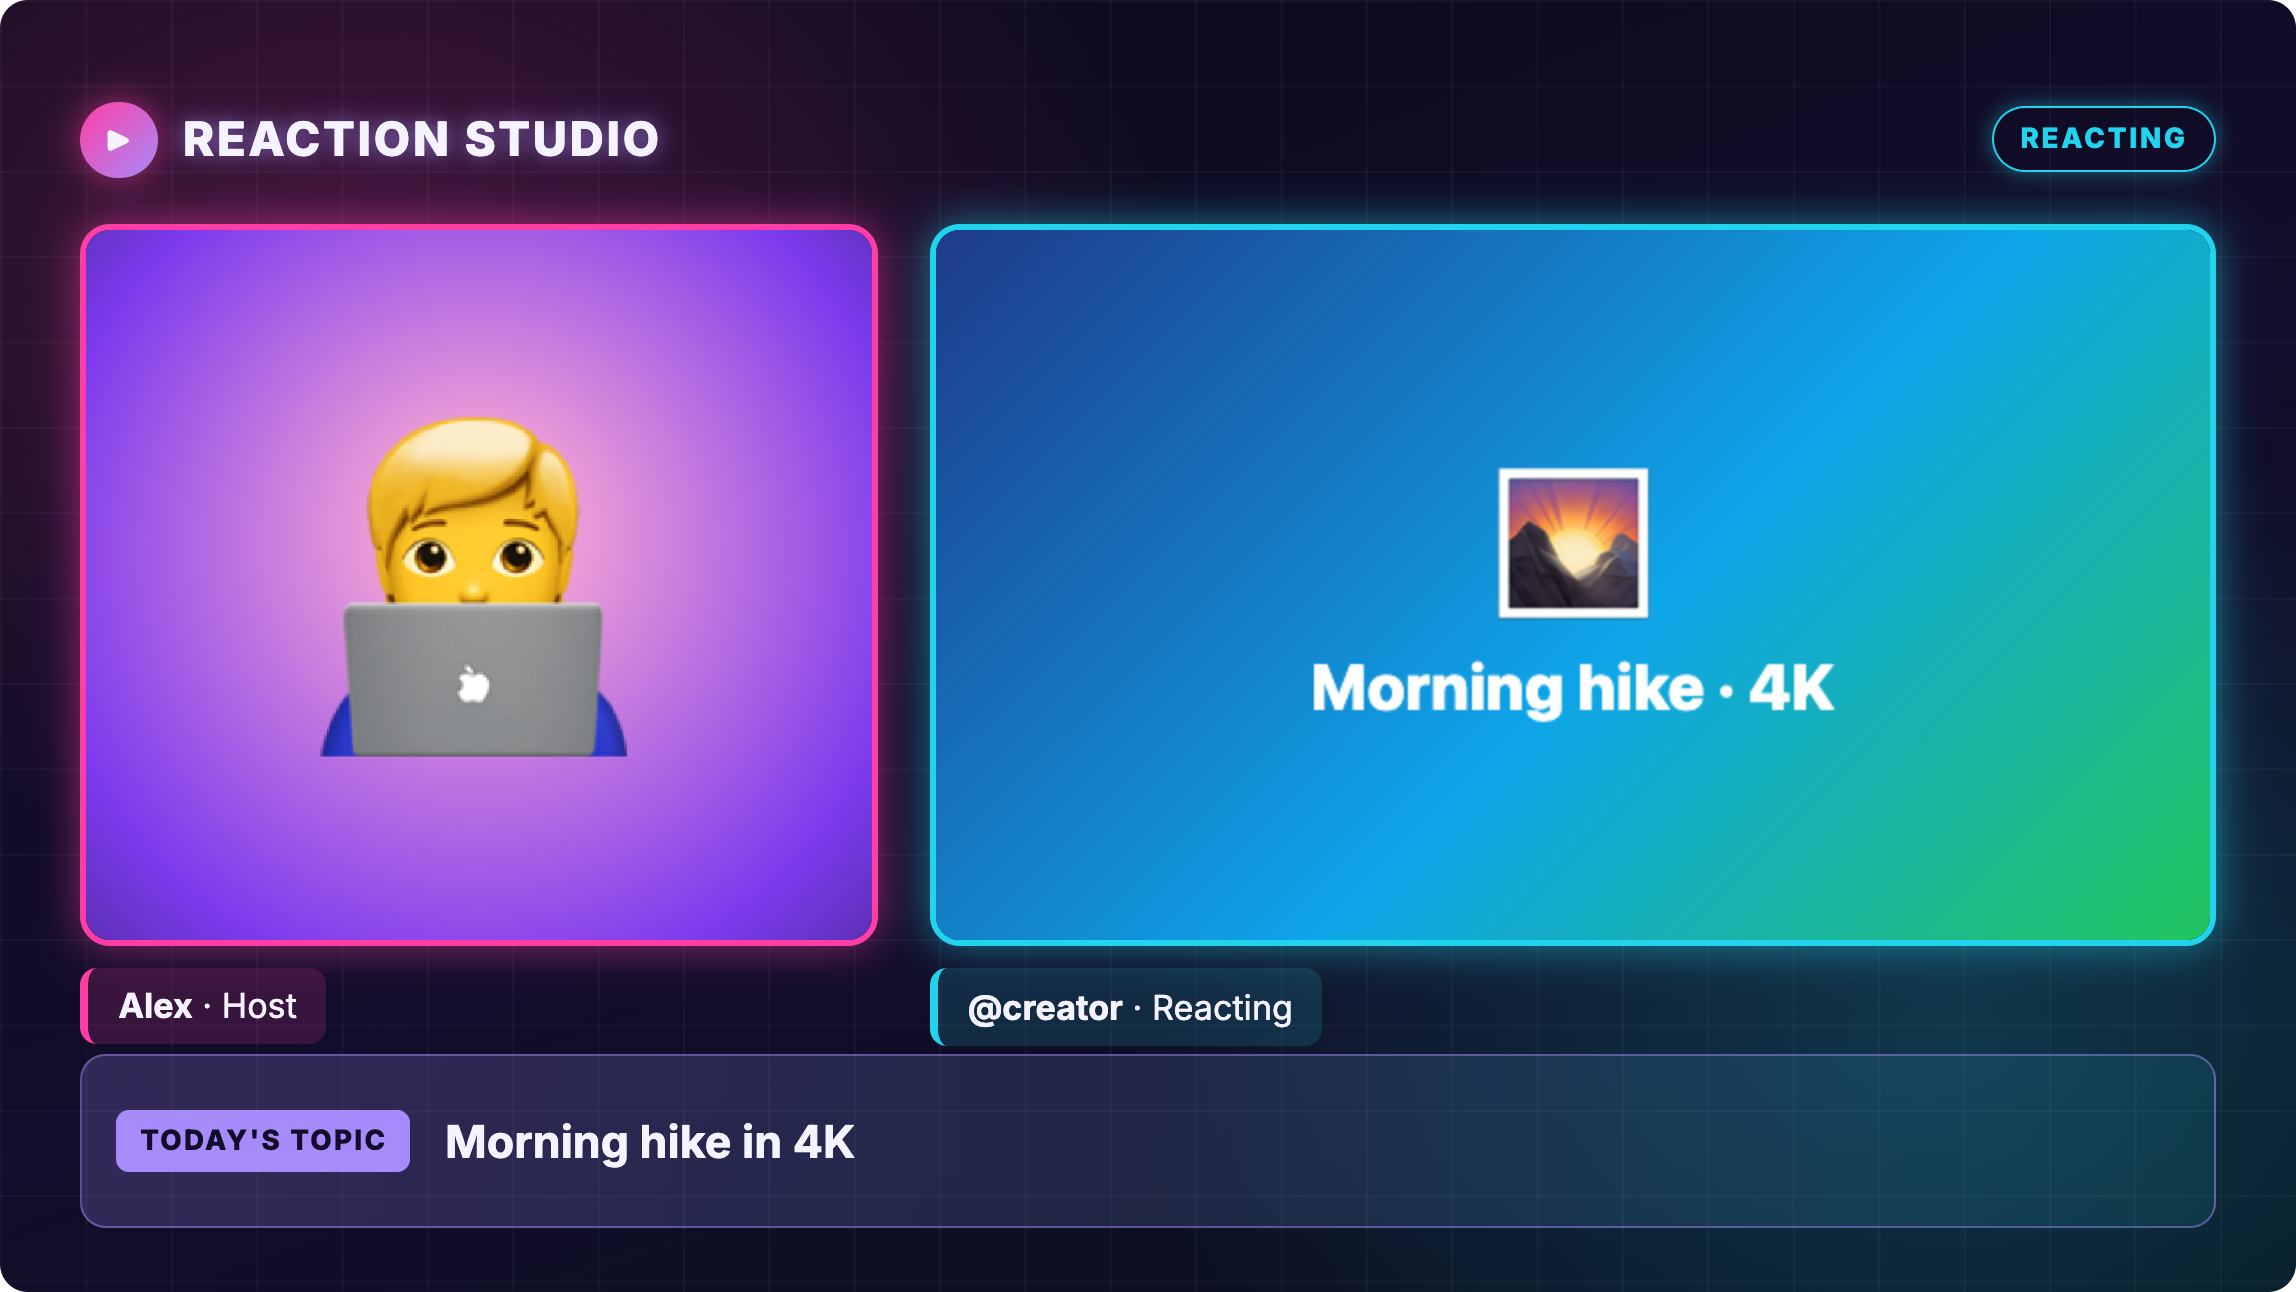
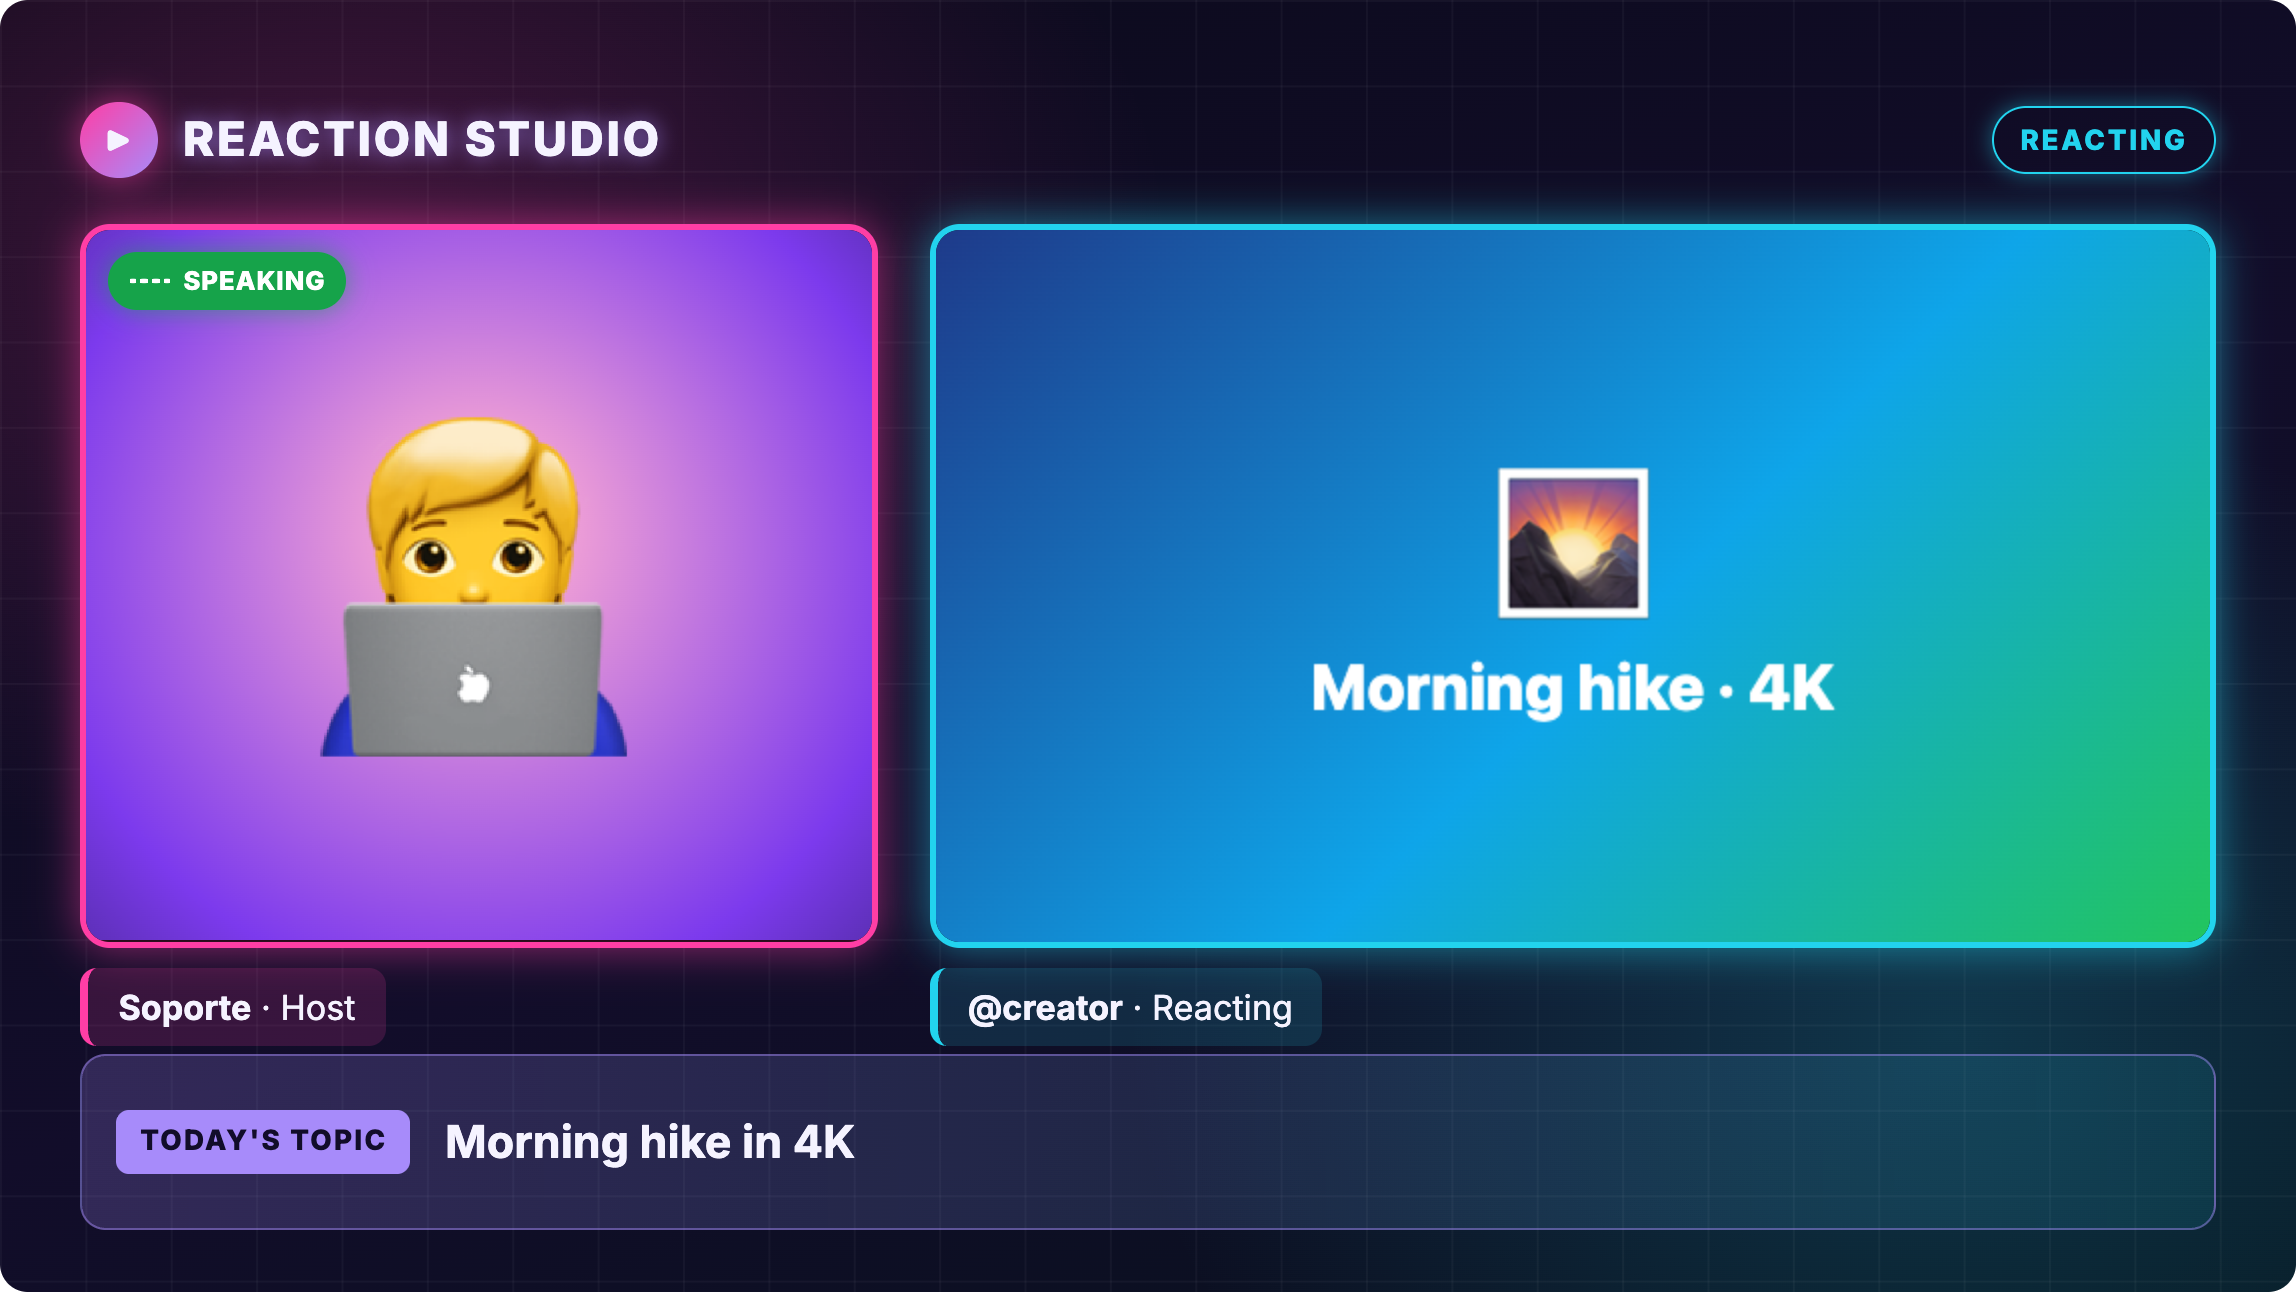
docs(estudio): rehacer capturas de la guía con máscaras y cartel Hablando/Escuchando

diff --git a/BITACORA-AGENTES.md b/BITACORA-AGENTES.md
@@ -1,3 +1,4 @@
+2026-11-10 · desarrollador · rehice capturas del Estudio (portada, escenario, vertical; es/en) con máscaras y cartel Hablando · ok
 2026-11-10 · desarrollador · Estudio fases 3 (máscaras con programa, logo y colores por cuenta; SubirImagen con «Tomar foto») y 4 (cartel «Hablando» con barras; crédito al creador en «Para YouTube»), guías en/es, candados C-MASCARAS, C-CAMARA-FOTO, C-HABLANDO, C-CREDITO · ok (verify y e2e en verde, en vivo comprobado) · 43ccd3b, 6b25ec0
 2026-11-10 · desarrollador · Fase 1 invitado remoto en el Estudio (enlace /join, WebRTC directo, señalización en /datos, TURN listo y apagado, guía bilingüe, candado C-INVITADO) · ok en local (verify y e2e en verde); en vivo, ver informe · 05fca1e
 2026-11-10 · investigador · ficha INVITADOS-EN-VIVO (REA sobre StreamYard, Riverside, Restream + precios de infraestructura) · ok, con puntos [NV] anotados · sin commit
